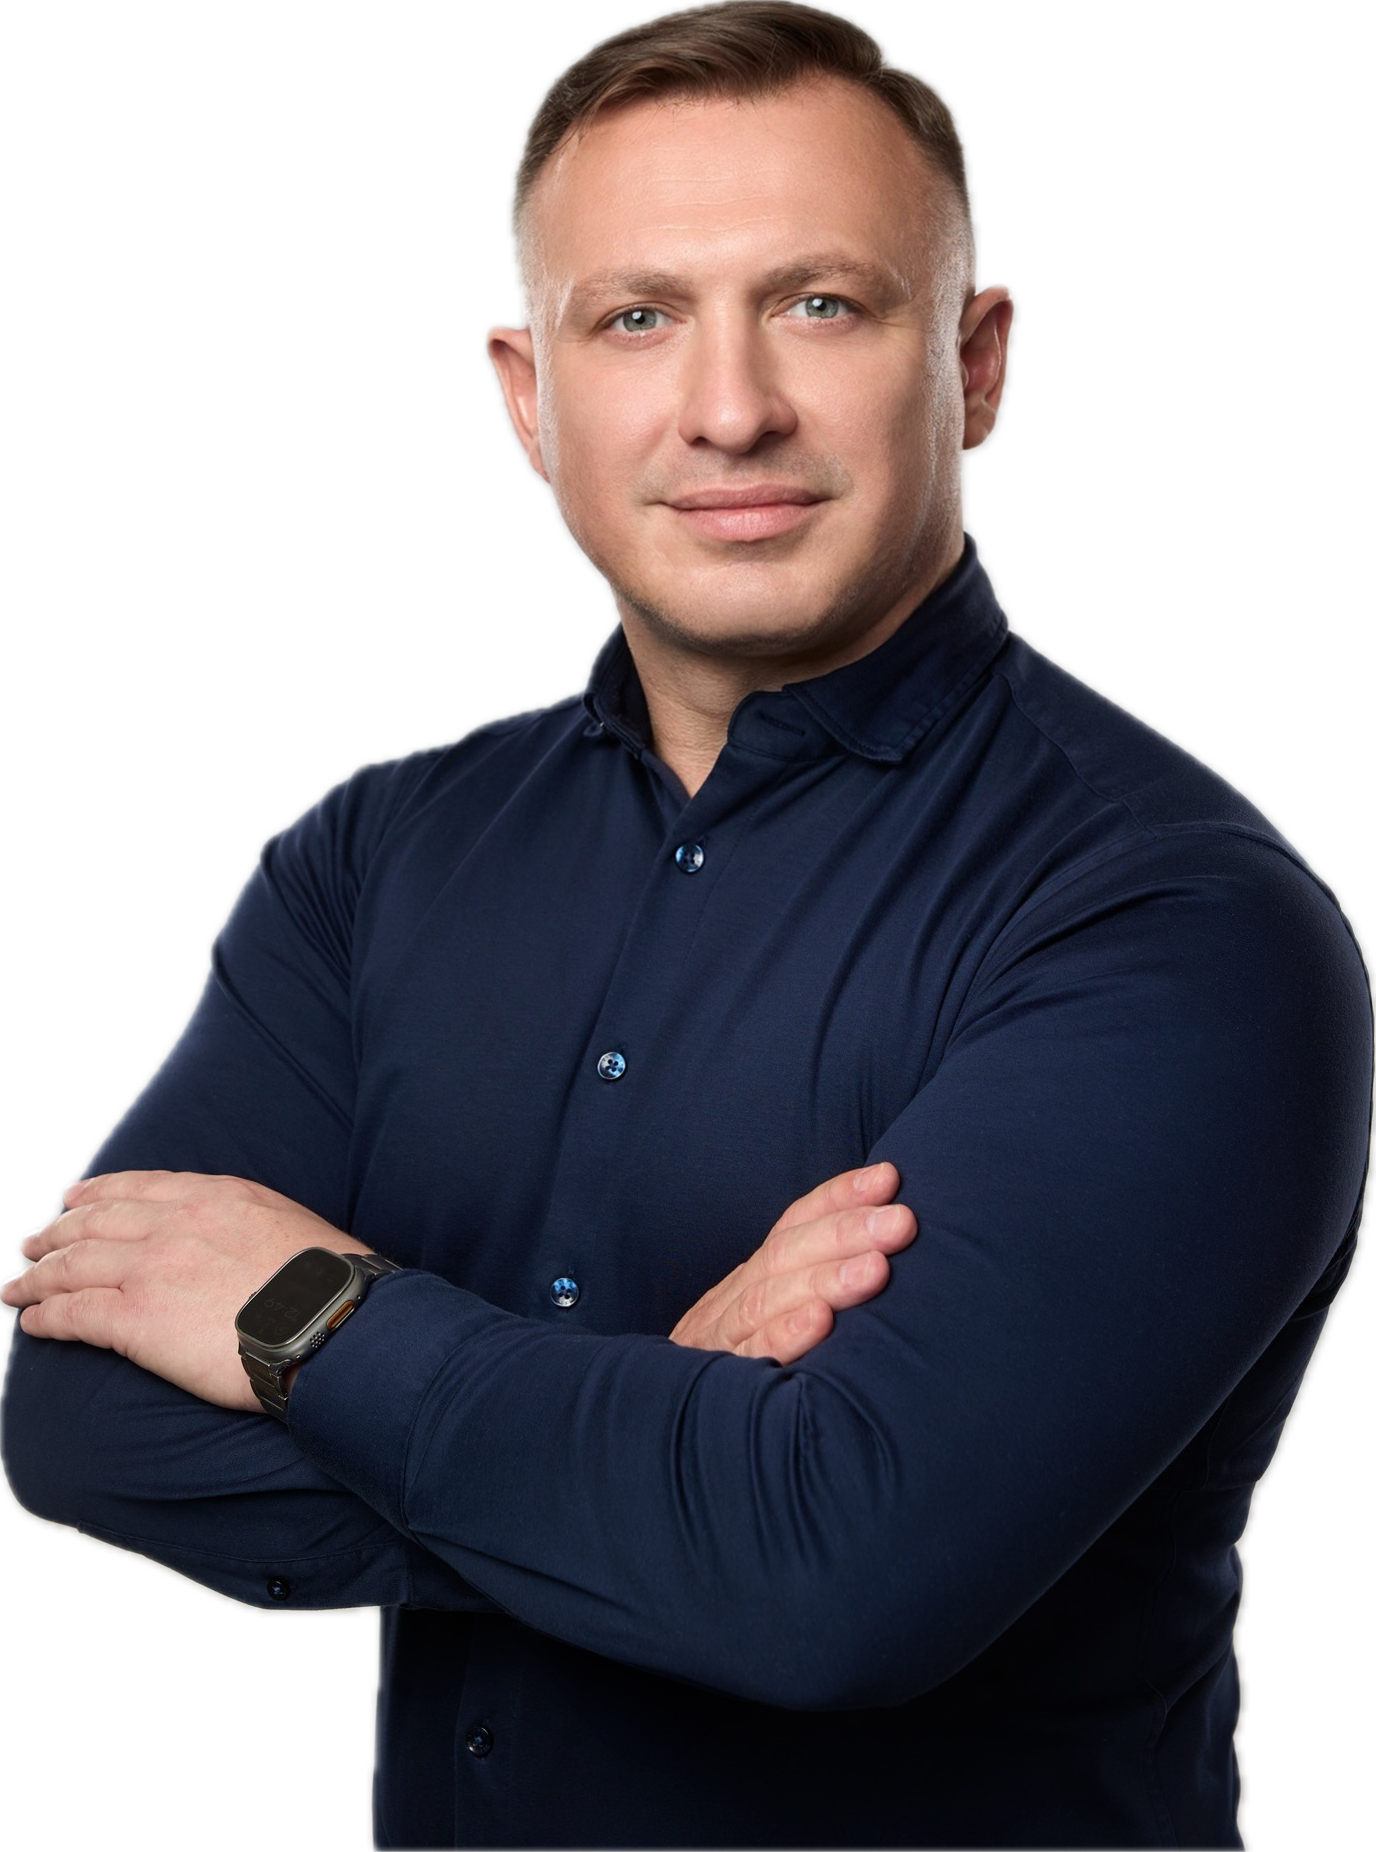
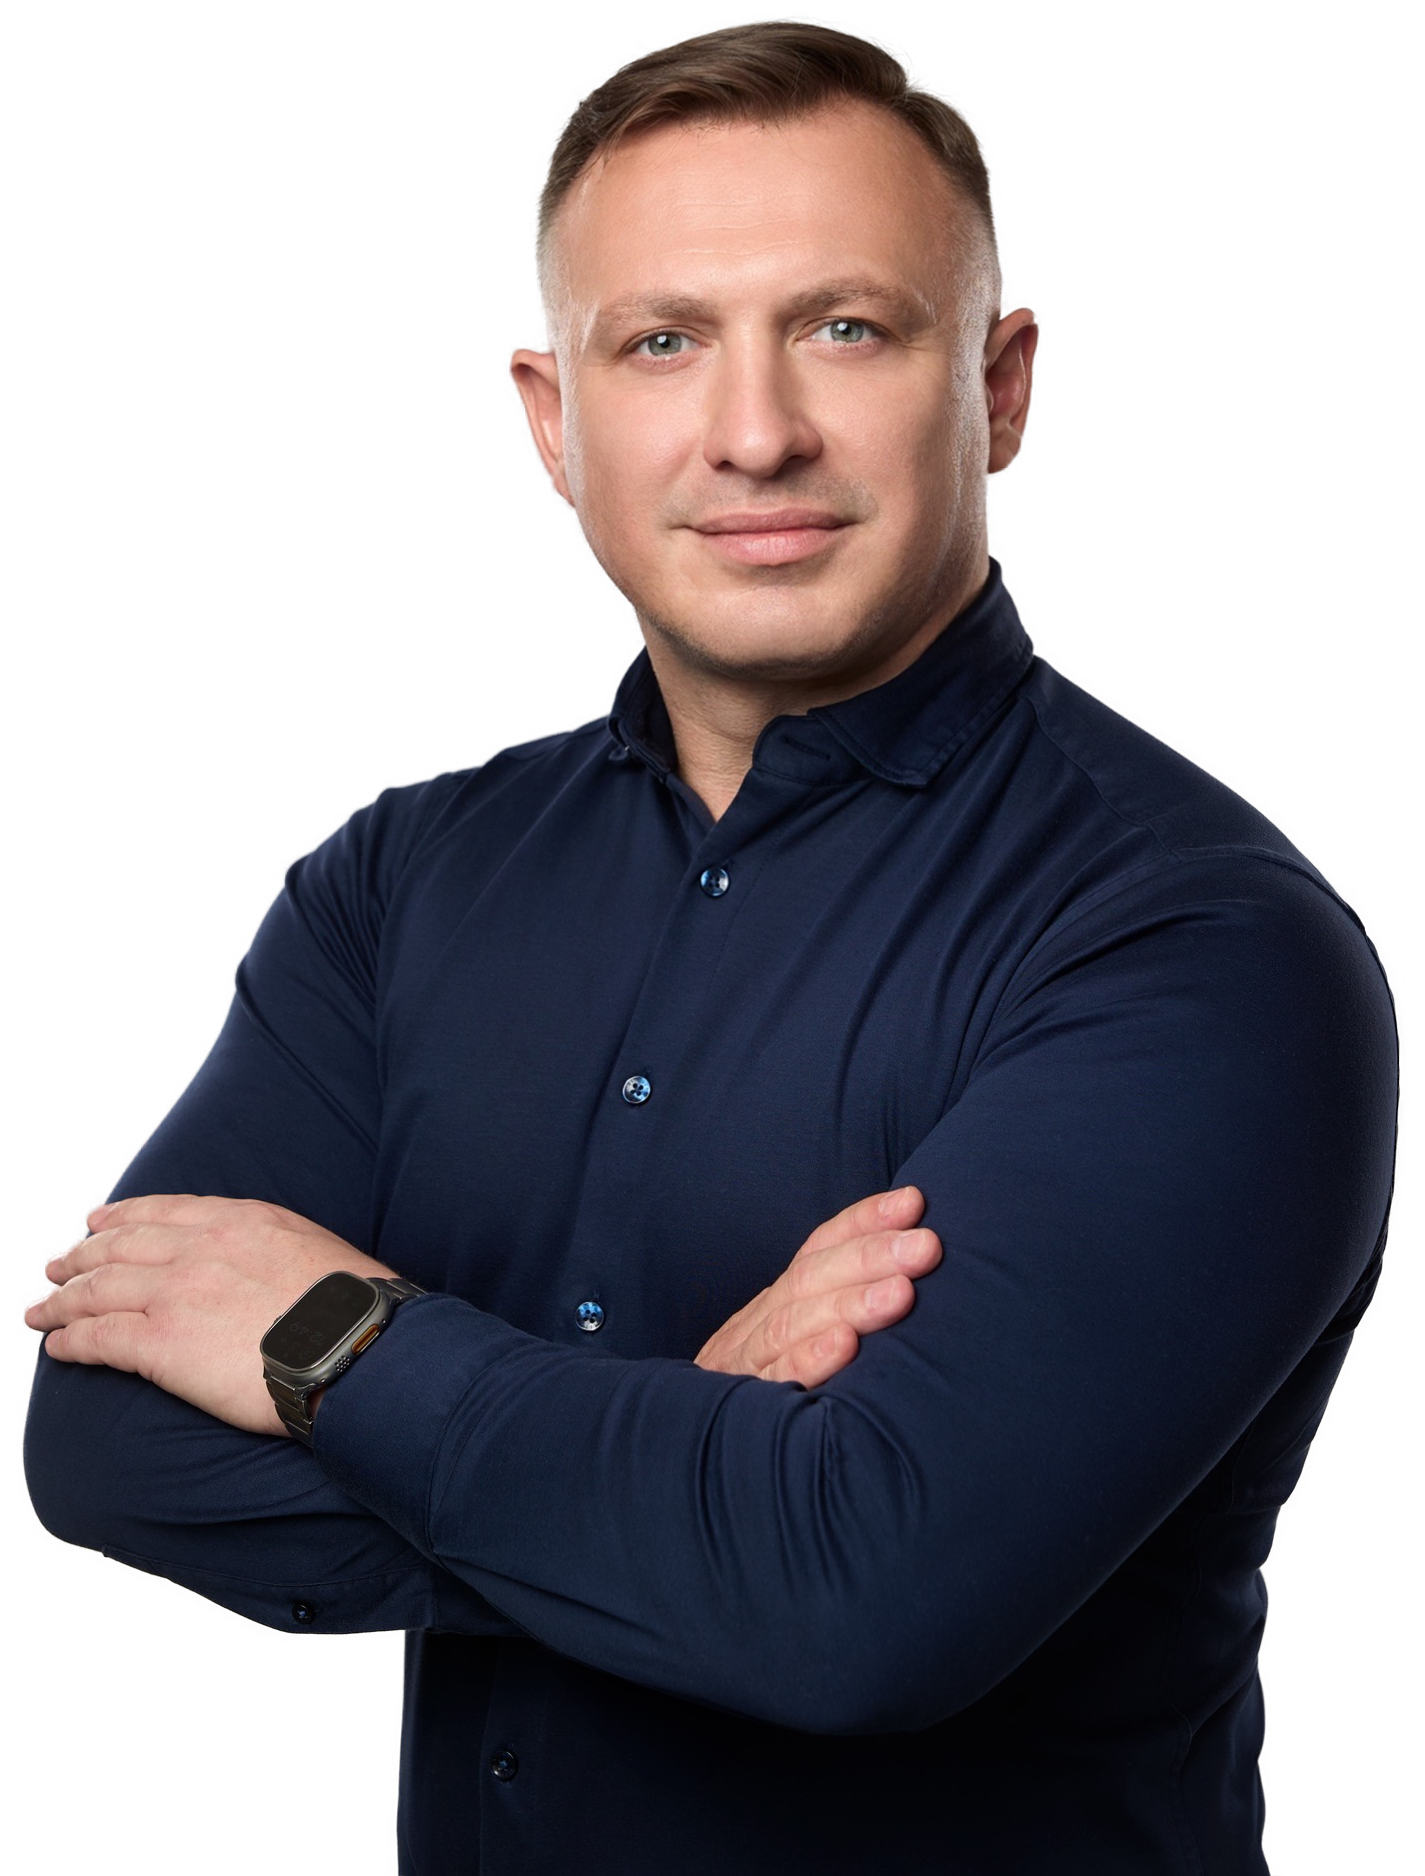
Langage selector (PL), images quality improved.

diff --git a/src/components/Contact.tsx b/src/components/Contact.tsx
@@ -103,7 +103,7 @@ export function Contact() {
             </div>
 
             <motion.div
-              className="flex justify-center"
+              className="flex justify-center items-end overflow-hidden -mb-4"
               initial={{ opacity: 0, scale: 0.85 }}
               whileInView={{ opacity: 1, scale: 1 }}
               viewport={{ once: true }}
@@ -112,7 +112,7 @@ export function Contact() {
               <div className="relative">
                 <div className="absolute inset-0 bg-gradient-to-br from-cyan-500 to-blue-600 rounded-full blur-3xl opacity-30 scale-75"></div>
                 <motion.div
-                  animate={{ y: [0, -12, 0] }}
+                  animate={{ y: [0, 12, 0] }}
                   transition={{ duration: 4, repeat: Infinity, ease: "easeInOut" }}
                 >
                   <Image
@@ -120,7 +120,7 @@ export function Contact() {
                     alt="Michał Sagan"
                     width={384}
                     height={500}
-                    className="relative w-80 h-auto md:w-100 -mb-4 md:h-auto object-contain drop-shadow-2xl"
+                    className="relative w-80 h-auto md:w-100 object-contain object-bottom drop-shadow-2xl"
                   />
                 </motion.div>
               </div>